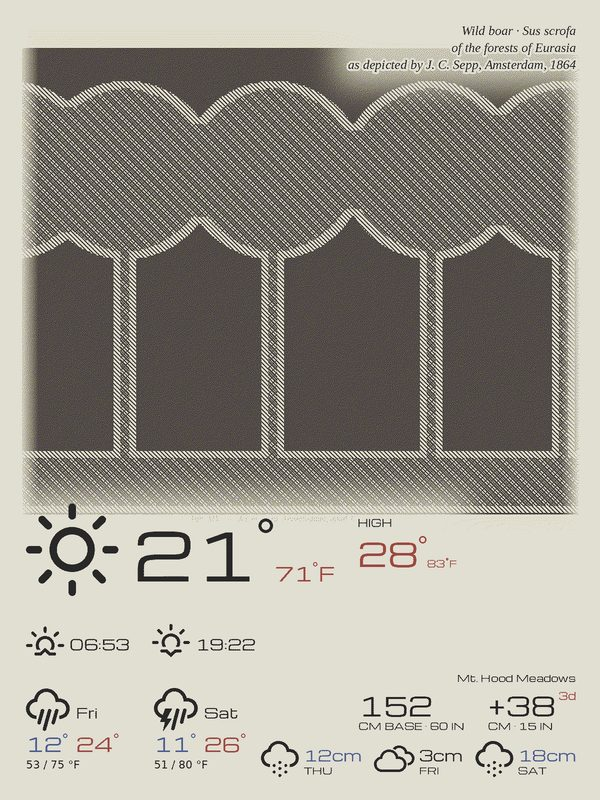
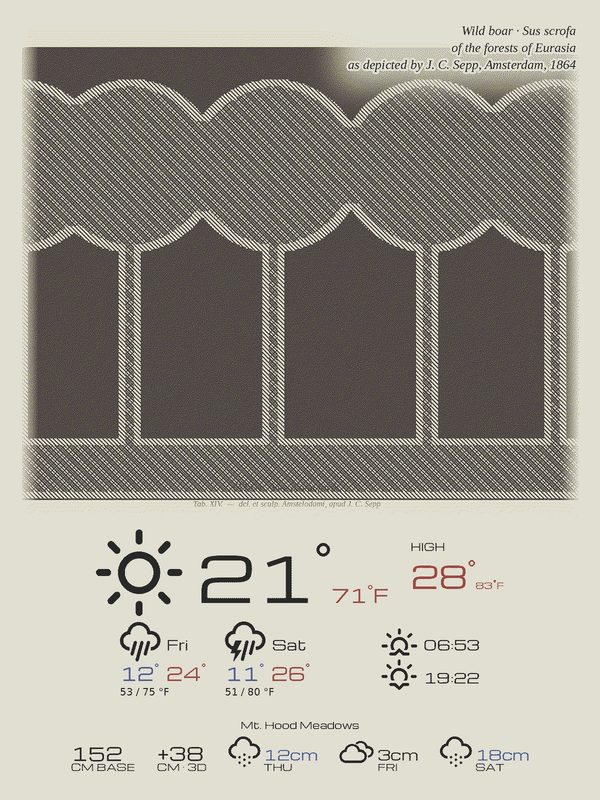
Hero: centred weather band with grouped forecast and rise/set blocks, snow foot row
The hero band is now the centred composition: temperature row centred, the
next two days grouped on the left and sunrise over sunset grouped on the
right, both hugging ±360px of centre. The snow report is a single centred
row along the bottom border with its location label clear of the glyphs.
With snow off the band drops to the border and the art section grows.

Claude-Session: https://claude.ai/code/session_01RncAPyNnkUNEaUjnkmmtCj

Changed region(s): [[0.03, 0.0938, 0.96, 0.9688]]

diff --git a/static/index.html b/static/index.html
@@ -191,7 +191,7 @@
           <option value="180">180° · upside down</option>
           <option value="270">270° · portrait</option>
         </select></div>
-      <div class="field" id="field-portrait-layout"><label for="f-portrait-layout" title="hero: engraving centred in the top two thirds with its caption overlaid bottom-right, weather band along the bottom. stack: weather and caption on top, engraving below.">Portrait layout</label><select id="f-portrait-layout"></select></div>
+      <div class="field" id="field-portrait-layout"><label for="f-portrait-layout" title="hero: engraving centred above a symmetric weather band (temperature centred, forecast left, sunrise/sunset right) and a centred snow row along the bottom border. stack: weather and caption on top, engraving below.">Portrait layout</label><select id="f-portrait-layout"></select></div>
       <div class="field"><label for="f-refresh" title="How often the panel itself redraws — governs how fresh the temperature is.">Refresh cadence (min)</label><input id="f-refresh" type="number" min="1" max="1440"></div>
       <div class="field"><label for="f-animal-period" title="How often a new engraving is chosen.">Animal cadence (days)</label><input id="f-animal-period" type="number" min="1" max="365"></div>
       <div class="field"><label for="f-tethered">Tethered mode (no deep sleep)</label><input id="f-tethered" type="checkbox"></div>

diff --git a/screens.py b/screens.py
@@ -363,9 +363,10 @@ def _sun_horizon(d: ImageDraw.ImageDraw, x: int, y: int, size: int, rising: bool
 # knows). Portrait has two arrangements, picked in the pane:
 #
 #   hero  — (default) the engraving sits centred in the top two thirds with
-#           its caption overlaid top-right; the weather climbs a little into
-#           the art's bottom edge and the snow report sits right-justified
-#           beside it. Text that meets the art fades the art locally under it.
+#           its caption overlaid top-right; below it a symmetric weather band
+#           (temperature centred; forecast block left, rise/set block right)
+#           and, along the bottom border, a centred snow row. With snow off
+#           the band drops to the border and the art grows into the room.
 #   stack — weather top-left, caption top-right, the engraving fills the lower
 #           two thirds; snow report bottom-left over the art's faded edge.
 
@@ -380,16 +381,17 @@ WEATHER_BLOCK_H = 440      # top of the glyph row to the bottom of the °F line
 # 1200, so the caption can't share that row as it does in landscape — it
 # tucks under the HIGH temperature instead, right-aligned.
 PORTRAIT_CAPTION_TOP = 196
-# Hero: the bottom third is the weather band (weather left, snow report
-# right-justified); everything above the band, inside HERO_MARGIN, is the
-# art section. Centred art has no edge to bleed off, so it gets only a soft
-# HERO_FADE on every side — enough to hide the crop line, not a dissolve.
-# The weather rows are spread HERO_WEATHER_SPREAD px further apart than in
-# landscape (the band was cramped) and the block climbs by that much into
-# the art section's bottom edge.
+# Hero: a centred composition. The weather band (_draw_weather_centred,
+# HERO_WEATHER_H tall) sits on the snow row (_snow_foot, HERO_SNOW_H tall)
+# or, with snow off, on the bottom margin; everything above, inside
+# HERO_MARGIN, is the art section. Centred art has no edge to bleed off, so
+# it gets only a soft HERO_FADE on every side — enough to hide the crop
+# line, not a dissolve.
 HERO_MARGIN = 40
 HERO_FADE = 36
-HERO_WEATHER_SPREAD = 48
+HERO_WEATHER_H = 340       # centred temperature row + forecast / rise-set row
+HERO_SNOW_H = 118          # location label over one row of figures
+HERO_BAND_HALF = 360       # the forecast and rise/set blocks hug ±this of centre
 # Text that sits on the art (caption, weather) has the art lightened under
 # it — a feathered white patch — so it reads without a heavy halo.
 CAPTION_FADE_STRENGTH = 0.82
@@ -477,18 +479,16 @@ def _dashboard_portrait(width: int, height: int, cfg: dict, data: dict,
     right = width - X(48)
 
     if layout == "hero":
-        # Bottom band first (it sets how much room the art gets above it).
-        band_bottom = height - Y(52)
+        # Build upwards from the bottom border: snow row (optional), weather
+        # band, then the art takes whatever is left above.
+        bottom = height - Y(52)
         if data["quote"]:
-            band_bottom = _draw_quote(ImageDraw.Draw(img), data["quote"], LX,
-                                      band_bottom, X, Y, halo) - Y(40)
-        # The art section ends where a landscape-spaced weather block would
-        # start; the spread block starts higher, climbing into the art.
-        spread = HERO_WEATHER_SPREAD
-        band_top = band_bottom - Y(WEATHER_BLOCK_H + 2 * spread)
+            bottom = _draw_quote(ImageDraw.Draw(img), data["quote"], LX,
+                                 bottom, X, Y, halo) - Y(40)
+        snow_top = bottom - Y(HERO_SNOW_H) if data["snow"] else bottom
+        band_top = (snow_top - Y(28) if data["snow"] else bottom) - Y(HERO_WEATHER_H)
         m = X(HERO_MARGIN)
-        box = (m, Y(HERO_MARGIN), width - m,
-               band_bottom - Y(WEATHER_BLOCK_H) - Y(HERO_MARGIN))
+        box = (m, Y(HERO_MARGIN), width - m, band_top - Y(24))
         art_rect = _draw_art(img, data["animal"], box, X, Y, mode="centered")
         d = ImageDraw.Draw(img)
         # Anything laid over the art is measured first (drawn into a 1px
@@ -506,15 +506,12 @@ def _dashboard_portrait(width: int, height: int, cfg: dict, data: dict,
             cap_w = max(d.textlength(ln, font=f_cap) for ln in lines)
             over_art((int(right - cap_w), cap_top, right, cap_top + Y(34) * len(lines)))
             _draw_caption_lines(d, lines, f_cap, right, cap_top, Y, halo)
-        over_art(_draw_weather(dry, data["weather"], LX, band_top, X, Y, halo,
-                               spread=spread))
-        _draw_weather(d, data["weather"], LX, band_top, X, Y, halo, spread=spread)
+        cx = width // 2
+        over_art(_draw_weather_centred(dry, data["weather"], cx, band_top, X, Y, halo))
+        _draw_weather_centred(d, data["weather"], cx, band_top, X, Y, halo)
         if data["snow"]:
-            args = (data["snow"], X, Y, halo)
-            over_art(_snow_report(dry, right, band_bottom, *args,
-                                  name=cfg["snow_location_name"], align="right"))
-            _snow_report(d, right, band_bottom, *args,
-                         name=cfg["snow_location_name"], align="right")
+            _snow_foot(d, cx, bottom, data["snow"], X, Y, halo,
+                       name=cfg["snow_location_name"])
         return img
 
     # stack: the landscape arrangement folded — info on top, art below.
@@ -727,6 +724,108 @@ def _draw_weather(d: ImageDraw.ImageDraw, weather: dict | None, LX: int, top: in
                f"{_c_to_f(day['tmin'])} / {_c_to_f(day['tmax'])} °F",
                font=_font(Y(22)), fill=BLACK, **halo)
     return (LX, top, max(x_end, LX + X(2 * 256)), P(452) + Y(28))
+
+
+def _draw_weather_centred(d: ImageDraw.ImageDraw, weather: dict | None, cx: int,
+                          top: int, X, Y, halo):
+    """The hero band: today's forecast glyph, current temperature and HIGH
+    centred as one row; under it two grouped blocks hugging ±HERO_BAND_HALF
+    of centre — the next two days on the left, sunrise over sunset on the
+    right. HERO_WEATHER_H tall. Returns the band's rectangle."""
+    left, right = cx - X(HERO_BAND_HALF), cx + X(HERO_BAND_HALF)
+    rect = (left, top, right, top + Y(HERO_WEATHER_H))
+    if not (weather and weather.get("days")):
+        f = _font(Y(40), style="display")
+        txt = "weather unavailable"
+        d.text((cx - d.textlength(txt, font=f) / 2, top + Y(60)), txt, font=f,
+               fill=RED, **halo)
+        return rect
+    today = weather["days"][0]
+
+    # Row 1, centred: glyph · 21° · HIGH 28°
+    kind = datasources.icon_kind(today["code"])
+    iw = _weather_icon_width(d, Y(58), kind)
+    w_cur = _temp_cf(d, 0, 0, weather["current_c"], Y(124), BLACK, halo, measure=True)
+    w_hi = _temp_cf(d, 0, 0, today["tmax"], Y(60), RED, halo, measure=True)
+    x = cx - (iw + X(28) + w_cur + X(44) + w_hi) // 2
+    _weather_icon(d, x + iw // 2, top + Y(84), Y(58), kind)
+    x += iw + X(28)
+    x += _temp_cf(d, x, top, weather["current_c"], Y(124), BLACK, halo) + X(44)
+    d.text((x, top + Y(16)), "HIGH", font=_font(Y(20), style="display"), fill=BLACK, **halo)
+    _temp_cf(d, x, top + Y(46), today["tmax"], Y(60), RED, halo)
+
+    # Row 2, left block: the next two days (glyph + weekday, low / high, °F).
+    ry = top + Y(206)
+    f_day = _font(Y(28), style="display")
+    x = left
+    for day in weather["days"][1:3]:
+        dk = datasources.icon_kind(day["code"])
+        dw = _weather_icon_width(d, Y(28), dk)
+        _weather_icon(d, x + dw // 2, ry + Y(16), Y(28), dk)
+        d.text((x + dw + X(12), ry), _dow(day["date"]), font=f_day, fill=BLACK, **halo)
+        lo, hi = str(round(day["tmin"])), str(round(day["tmax"]))
+        wl = _deg(d, x, ry + Y(52), lo, Y(36), BLUE, halo=halo)
+        _deg(d, x + wl + X(16), ry + Y(52), hi, Y(36), RED, halo=halo)
+        d.text((x, ry + Y(104)), f"{_c_to_f(day['tmin'])} / {_c_to_f(day['tmax'])} °F",
+               font=_font(Y(20)), fill=BLACK, **halo)
+        x += X(210)
+
+    # Row 2, right block: sunrise over sunset, times flush right, glyphs in
+    # a column (both times measured so the glyphs line up).
+    f_t = _font(Y(28), style="display")
+    gsz = Y(56)
+    gw = _glyph_width(d, WI_SUNRISE, gsz)
+    times = ((_hhmm(today["sunrise"]), True), (_hhmm(today["sunset"]), False))
+    tw = max(d.textlength(t, font=f_t) for t, _ in times)
+    gx = right - tw - X(12) - gw // 2
+    for i, (txt, rising) in enumerate(times):
+        yy = ry + i * Y(66)
+        _sun_horizon(d, gx, yy + Y(16), gsz, rising)
+        d.text((right - d.textlength(txt, font=f_t), yy), txt, font=f_t, fill=BLACK, **halo)
+    return rect
+
+
+def _snow_foot(d: ImageDraw.ImageDraw, cx: int, bottom: int, snow, X, Y, halo,
+               name: str = ""):
+    """The hero snow row, centred on cx with its bottom at `bottom`: base and
+    72 h figures, then the three coming days as forecast glyph with the cm
+    amount (blue when heavy) over the weekday; the location label centred
+    above with clear air under it. HERO_SNOW_H tall. Returns its rectangle."""
+    f_big = _font(Y(36), style="display")
+    f_amt = _font(Y(28), style="display")
+    f_s = _font(Y(19), style="display")
+    depth, recent = _cm(snow.get("depth_cm")), _cm(snow.get("recent_cm"))
+    items = [(None, str(depth), "CM BASE", 0), (None, f"+{recent}", "CM · 3D", 0)]
+    for dy in (snow.get("days") or [])[:3]:
+        cm = _cm(dy.get("snow_cm"))
+        items.append((datasources.icon_kind(dy.get("code")), f"{cm}cm",
+                      _dow(dy.get("date")).upper(), cm))
+    widths = []
+    for k, big, lab, _ in items:
+        fw = f_big if k is None else f_amt
+        widths.append((_weather_icon_width(d, Y(22), k) + X(6) if k else 0)
+                      + max(d.textlength(big, font=fw), d.textlength(lab, font=f_s)))
+    total = sum(widths) + X(44) * (len(items) - 1)
+    fy = bottom - Y(60)             # top of the figures line
+    x = cx - total // 2
+    top = fy - Y(6)
+    if name:
+        top = fy - Y(52)
+        d.text((cx - d.textlength(name, font=f_s) / 2, top), name, font=f_s,
+               fill=BLACK, **halo)
+    for (k, big, lab, cm), w in zip(items, widths):
+        xx = x
+        if k:
+            iw = _weather_icon_width(d, Y(22), k)
+            _weather_icon(d, xx + iw // 2, fy + Y(16), Y(22), k)
+            xx += iw + X(6)
+            d.text((xx, fy), big, font=f_amt,
+                   fill=BLUE if cm >= SNOW_HEAVY_CM else BLACK, **halo)
+        else:
+            d.text((xx, fy - Y(8)), big, font=f_big, fill=BLACK, **halo)
+        d.text((xx, fy + Y(32)), lab, font=f_s, fill=BLACK, **halo)
+        x += w + X(44)
+    return (cx - total // 2, top, cx + total // 2, bottom)
 
 
 def _draw_quote(d: ImageDraw.ImageDraw, quote: dict, LX: int, bottom: int,

diff --git a/CLAUDE.md b/CLAUDE.md
@@ -16,7 +16,7 @@ Module map:
 |---|---|
 | `main.py` | FastAPI app — control-pane API + device API. Renders via `asyncio.to_thread` under one lock |
 | `config.py` | All tunables/env vars (`INKPLATE_DATA_DIR`, panel size, cadence bounds) |
-| `screens.py` | Screen registry: `(width, height) -> PIL RGB image`, add to `SCREENS` dict, appears in the pane automatically. Screens are size-agnostic and get `1200x1600` when the panel is rotated to portrait. `dashboard` is the real screen, built from shared widgets (`_draw_weather`, `_draw_caption`, `_draw_art`, `_snow_report`, `_draw_quote`) laid out per orientation — landscape, or one of `PORTRAIT_LAYOUTS` chosen by config `portrait_layout` (`hero`, the default and the primary hanging: engraving centred on its ink centroid in the top two thirds with a soft `HERO_FADE` edge, caption overlaid top-right, weather block bottom-left with its rows spread `HERO_WEATHER_SPREAD` apart and climbing that far into the art section, snow report right-justified beside it; anything laid over the art is measured first and the art lightened under it with a feathered white patch (`_fade_behind`); `stack`: info on top, engraving below). Minimal layout: weather top-left (left-aligned; today's *forecast* glyph + current °C with small °F + high, then sunrise/sunset, then the next two days by weekday abbreviation — never TODAY/TOMORROW), optional snow report (`_snow_report`: snowpack row, then a forecast-glyph row) bottom-left, daily engraving as an edge-faded background bleeding off the right (`_edge_fade_mask`), caption top-right (name / native range / depiction each on their own line, wrapped at `CAPTION_WIDTH` so it clears the HIGH temperature; in portrait it tucks *under* the HIGH column at `PORTRAIT_CAPTION_TOP` because the weather's first row spans most of a 1200px frame). The daily quote (serif italic, ≤ 3 lines via `quote_fits`, attribution "— Author, Work (Year)") is **off by default** (`show_quote`) — not fetched, not drawn, and the art box grows to the bottom border; the code, vetoes and pane card stay. The snow block is labelled with `snow_location_name`. Plate standardisation: `_trim_borders` → `_subject_box` (**projection-profile analysis, not an absolute bbox** — one stray mark stretches a bbox to the whole sheet, which is how the crop used to fail silently) → white point via `_paper_tone` (75th percentile, not median: on a densely inked plate the median pixel *is* ink). Figures are contained in a fixed panel-space art box, scenes cover it, and the fade is a fixed pixel width so it never varies with plate size. Fonts: Michroma display (`fonts/`, the rage channel font; use `_deg()` for degree marks — its own `°` is broken-looking), DejaVu Serif Italic for the quote. White stroke halos keep text legible over the art. Icons are Weather Icons font glyphs (`WI_GLYPHS`, `_weather_icon`/`_glyph`): draw them **filled, never stroked** (line art doubles), except yellow which gets a thin black stroke for contrast; reference codepoints as `chr(0xf00d)` — literal PUA characters get stripped in transit |
+| `screens.py` | Screen registry: `(width, height) -> PIL RGB image`, add to `SCREENS` dict, appears in the pane automatically. Screens are size-agnostic and get `1200x1600` when the panel is rotated to portrait. `dashboard` is the real screen, built from shared widgets (`_draw_weather`, `_draw_caption`, `_draw_art`, `_snow_report`, `_draw_quote`) laid out per orientation — landscape, or one of `PORTRAIT_LAYOUTS` chosen by config `portrait_layout` (`hero`, the default and the primary hanging: a centred composition — engraving centred on its ink centroid with a soft `HERO_FADE` edge, caption overlaid top-right, then `_draw_weather_centred` (temperature row centred; forecast block left and sunrise-over-sunset block right, hugging ±`HERO_BAND_HALF`) and `_snow_foot` (one centred row along the bottom border); with snow off the band drops to the border and the art grows; anything laid over the art is measured first and the art lightened under it with a feathered white patch (`_fade_behind`); `stack`: info on top, engraving below). Minimal layout: weather top-left (left-aligned; today's *forecast* glyph + current °C with small °F + high, then sunrise/sunset, then the next two days by weekday abbreviation — never TODAY/TOMORROW), optional snow report (`_snow_report`: snowpack row, then a forecast-glyph row) bottom-left, daily engraving as an edge-faded background bleeding off the right (`_edge_fade_mask`), caption top-right (name / native range / depiction each on their own line, wrapped at `CAPTION_WIDTH` so it clears the HIGH temperature; in portrait it tucks *under* the HIGH column at `PORTRAIT_CAPTION_TOP` because the weather's first row spans most of a 1200px frame). The daily quote (serif italic, ≤ 3 lines via `quote_fits`, attribution "— Author, Work (Year)") is **off by default** (`show_quote`) — not fetched, not drawn, and the art box grows to the bottom border; the code, vetoes and pane card stay. The snow block is labelled with `snow_location_name`. Plate standardisation: `_trim_borders` → `_subject_box` (**projection-profile analysis, not an absolute bbox** — one stray mark stretches a bbox to the whole sheet, which is how the crop used to fail silently) → white point via `_paper_tone` (75th percentile, not median: on a densely inked plate the median pixel *is* ink). Figures are contained in a fixed panel-space art box, scenes cover it, and the fade is a fixed pixel width so it never varies with plate size. Fonts: Michroma display (`fonts/`, the rage channel font; use `_deg()` for degree marks — its own `°` is broken-looking), DejaVu Serif Italic for the quote. White stroke halos keep text legible over the art. Icons are Weather Icons font glyphs (`WI_GLYPHS`, `_weather_icon`/`_glyph`): draw them **filled, never stroked** (line art doubles), except yellow which gets a thin black stroke for contrast; reference codepoints as `chr(0xf00d)` — literal PUA characters get stripped in transit |
 | `datasources.py` | External data with disk-backed TTL caches + stale-on-error. Weather: Open-Meteo keyed by lat/lon. Daily animal: `COLLECTIONS` registry of seven historical corpuses on Commons (IZ backstop + Gessner/Buffon/Brehm/Catesby/Audubon/Gould), daily rotation with fall-through; **only files whose title names the beast are accepted** (full-text matches lie); anatomy-plate filter (Dutch/French/English tokens); `ANIMALS` is 228 (common, latin, native, kind) tuples, all verified to resolve against the live API — **re-run a resolution sweep after editing it** (see DECISIONS §20b); a two-word Latin term must match in full (genus alone mislabels: "Canis" catches jackals). Credit always describes the original work: files dated 1900+ are modern photos of a plate (usable, but preferred *after* real scans) and their Artist/date are ignored in favour of the corpus attribution. **Never render a placeholder** — a field naming nobody drops its clause instead of printing "Unknown"; an *absent* Artist falls back to the corpus, an explicitly-unknown one does not. Snow: Open-Meteo at its own lat/lon (`get_snow`: modelled depth, 72 h snowfall, 3 days) — a grid-cell estimate, not the resort's reported base. Tests monkeypatch `_get_json`/`_get_bytes` — the suite never touches the network |
 | `quotes.py` | Daily quote from Wikiquote's Quote of the Day (MediaWiki `action=parse`). **Attribution and year are mandatory**: the quote must be found on the author's page outside Disputed/Misattributed/Attributed/"about" sections and a year must come from its citation or section heading — otherwise the candidate is skipped, never shown bare. Fallbacks are seeded random archive dates strictly before `NO_REPEAT_BEFORE` (2026-10-07); a shown-history cache prevents repeats; vetoes live in config `vetoed_quotes`. Tests fake the API via `datasources._get_json` |
 | `renderer.py` | Orchestration + disk cache (`data/render/{raw,dithered,panel,frame}.png` + `meta.json`); `ensure_fresh()` re-renders on staleness/screen/rotation change; serves stale frame if a render fails. **Rotation lives here**: the screen is drawn upright at `upright_size(rotation)` and the three previews stay upright (what's on the wall); only `frame.png` — what the device downloads — is turned by `to_panel_frame`, so the firmware always gets native 1600×1200. `rotation` is the panel's clockwise turn from landscape (90 = portrait); PIL's `rotate()` is anticlockwise, which is exactly the inverse the frame needs |

diff --git a/DECISIONS.md b/DECISIONS.md
@@ -202,13 +202,16 @@ they can be compared on the wall rather than argued about from mockups:
   are the art section. The plate is centred there on its **ink centroid**,
   not its bounding box (a heron is a big body under a thin neck; the eye
   centres the body), clamped inside the section. The long edge fades go: a
-  36 px softening only. The caption sits top-right, on the art. The weather
-  block was cramped in a 440 px band, so its rows are spread 48 px further
-  apart and it climbs that far into the art section's bottom edge; the snow
-  report is right-justified beside it. Anything laid over the art — caption,
-  weather — is measured first and the art lightened under it with a
-  feathered white patch (`_fade_behind`): fade the image for the text, not
-  the whole edge.
+  36 px softening only. The caption sits top-right, on the art. Below, a
+  **symmetric band** (the landscape weather block, left-aligned, read as
+  cramped under a centred image): the temperature row centred; under it two
+  grouped blocks hugging ±360 px of centre — the next two days on the left,
+  sunrise over sunset on the right. The snow report is one centred row along
+  the bottom border, its label with clear air above the glyphs. With snow
+  off the band drops to the border and the art section grows by ~150 px.
+  Anything laid over the art — caption, weather — is measured first and the
+  art lightened under it with a feathered white patch (`_fade_behind`): fade
+  the image for the text, not the whole edge.
 
 **Now-playing is gone** (fetcher, config flag, fast render TTL, pane
 checkbox). Matt will never use it on the wall; §18 stays as history.

diff --git a/README.md b/README.md
@@ -103,9 +103,9 @@ docker logs apps-inkplate-1 -f
   the panel's clockwise turn — 90° or 270° hangs it vertically and the
   dashboard switches to its portrait layout; the device still receives a
   native 1600×1200 frame, pre-turned, so nothing changes on the firmware
-  side), **portrait layout** (*hero*, the default: engraving centred in the top
-  two thirds with its caption overlaid top-right, weather bottom-left and the
-  snow report right-justified beside it; *stack*: weather and caption on top,
+  side), **portrait layout** (*hero*, the default: engraving centred with its caption
+  top-right, a symmetric weather band under it and the snow report in one
+  centred row along the bottom border; *stack*: weather and caption on top,
   engraving below — see `docs/layouts/`), refresh cadence (how often the panel
   redraws — keeps the temperature current), animal cadence in days (default
   daily), quote on/off, weather and snow locations, tethered mode. Applies
